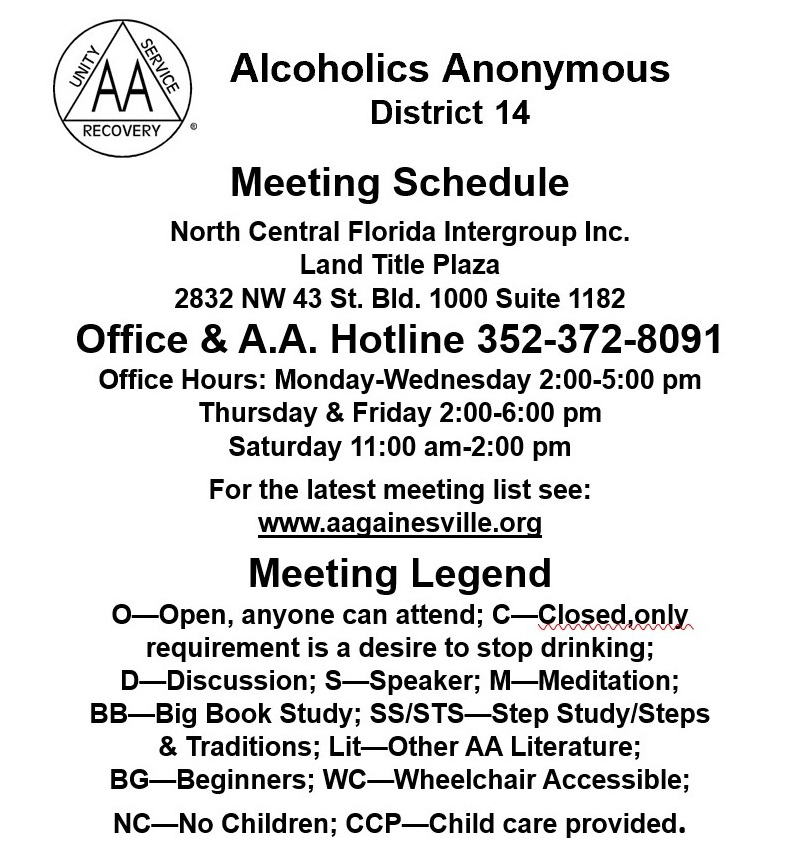
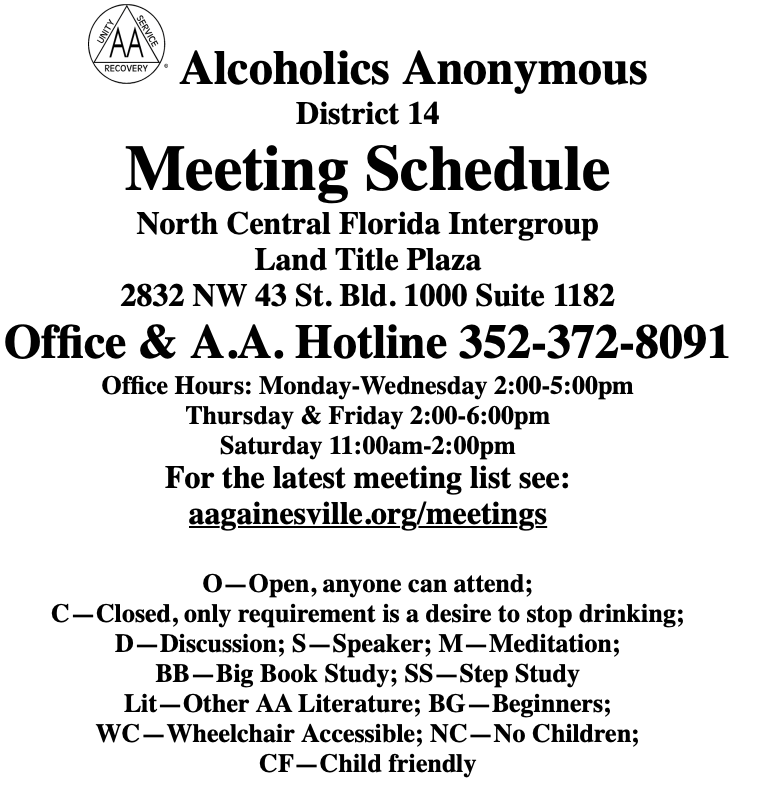
Tweaks to coverpage to change CCP designation to CF and to tighten up spacing

Changed region(s): [[0.0, 0.0, 0.9621, 0.995]]

diff --git a/coverpage.html b/coverpage.html
@@ -1,4 +1,3 @@
-
 <center><b><font size="+2">
 <img src='AA-Logo.png' width="40" height="40" />
 Alcoholics Anonymous<br/>
@@ -7,24 +6,23 @@ District 14<br/>
 <font size="+3">
 Meeting Schedule<br/>
 </font>
-North Central Florida Intergroup Inc<br/>
+North Central Florida Intergroup<br/>
 Land Title Plaza<br/>
 2832 NW 43 St. Bld. 1000 Suite 1182<br/>
 <font size="+2">
 Office & A.A. Hotline 352-372-8091<br/>
 </font><font size="-1">
-Office Hours: Monday-Wednesday 2:00-5:00 pm<br/>
-Thursday & Friday 2:00-6:00 pm<br/>
-Saturday 11:00 am-2:00 pm/></font><br/>
+Office Hours: Monday-Wednesday 2:00-5:00pm<br/>
+Thursday & Friday 2:00-6:00pm<br/>
+Saturday 11:00am-2:00pm</font><br/>
 For the latest meeting list see:<br/>
-<u>www.aagainesville.org</u><br/><br/>
-<font size="+2">
-Meeting Legend></font><br/><font size="-1">
-O&mdash;Open, anyone can attend; C&mdash;Closed, only<br/>
-requirement is a desire to stop drinking;<br/>
+<u>aagainesville.org/meetings</u><br/><br/>
+<font size="-1">
+O&mdash;Open, anyone can attend;<br/>
+C&mdash;Closed, only requirement is a desire to stop drinking;<br/>
 D&mdash;Discussion; S&mdash;Speaker; M&mdash;Meditation;<br/>
-BB&mdash;Big Book Study; SS/STS&mdash;Step Study/Steps<br/>
-& Traditions; Lit&mdash;Other AA Literature;<br/>
-BG&mdash;Beginners; WC&mdash;Wheelchair Accessible;<br/>
-NC&mdash;No Children; CCP&mdash;Child care provided<br/><br/></font></b>
+BB&mdash;Big Book Study; SS&mdash;Step Study<br/>
+Lit&mdash;Other AA Literature; BG&mdash;Beginners;<br/>
+WC&mdash;Wheelchair Accessible; NC&mdash;No Children;<br/>
+CF&mdash;Child friendly<br/><br/></font></b>
 </center>
